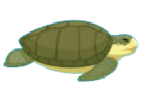
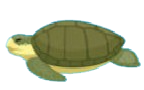
Add files via upload

diff --git a/aula.py b/aula.py
@@ -319,7 +319,7 @@ class TelaJogo(arcade.View):
         self.lista_orcas.clear()
         self.cronometro_fase3 = 10.0 
         
-        for i in range(3):
+        for i in range(1):
             orca = Orca("orca_direita.png", scale=1.2)
             orca.center_x = random.randint(100, 700)
             orca.center_y = random.randint(100, 500)
